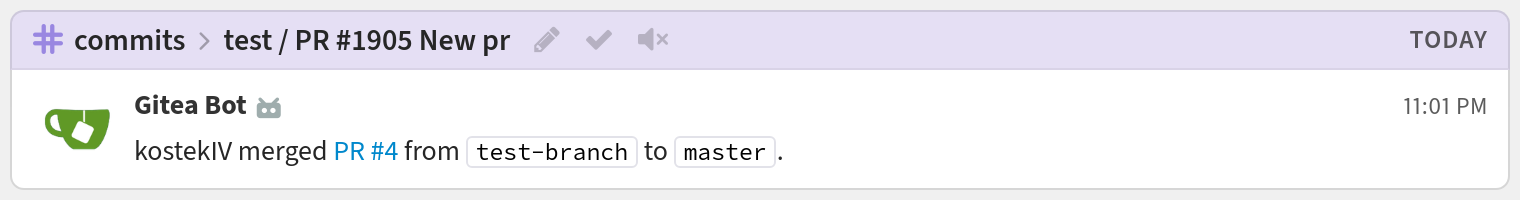
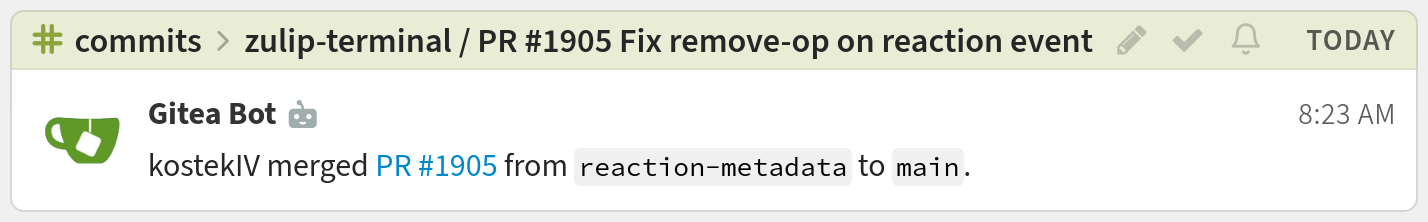
integrations: Refine Gitea example screenshot.

diff --git a/zerver/webhooks/gitea/tests.py b/zerver/webhooks/gitea/tests.py
@@ -30,8 +30,8 @@ class GiteaHookTests(WebhookTestCase):
         self.check_webhook("pull_request__opened", expected_topic_name, expected_message)
 
     def test_pull_request_merged(self) -> None:
-        expected_topic_name = "test / PR #1905 New pr"
-        expected_message = """kostekIV merged [PR #4](https://try.gitea.io/kostekIV/test/pulls/4) from `test-branch` to `master`."""
+        expected_topic_name = "zulip-terminal / PR #1905 Fix remove-op on reaction event"
+        expected_message = """kostekIV merged [PR #1905](https://try.gitea.io/kostekIV/test/pulls/4) from `reaction-metadata` to `main`."""
         self.check_webhook("pull_request__merged", expected_topic_name, expected_message)
 
     def test_pull_request_edited(self) -> None:
